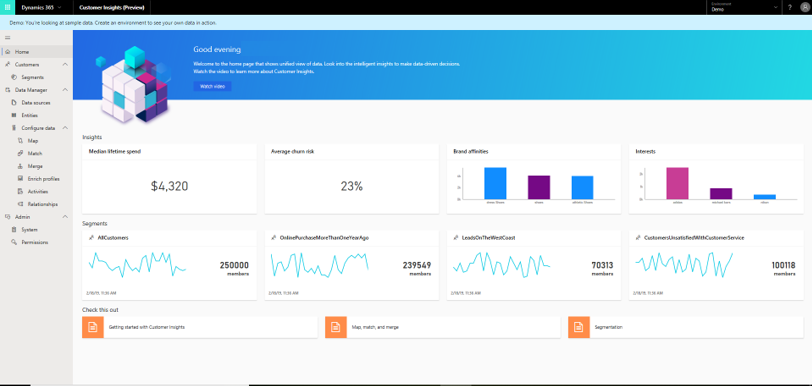
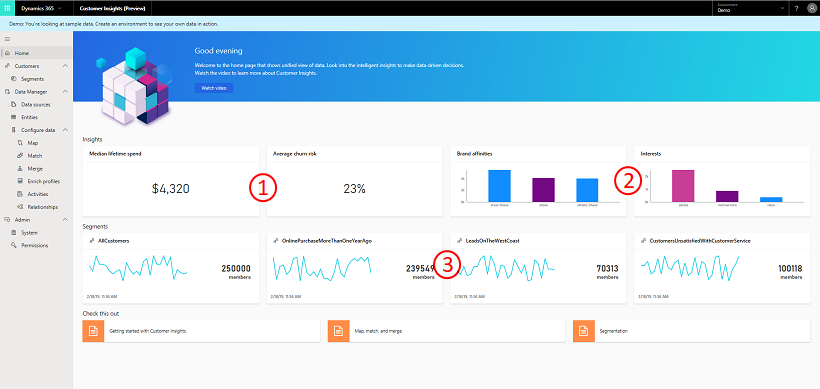
start edits for home page topic

diff --git a/ai-docs/customer-insights/pm-homepage.md b/ai-docs/customer-insights/pm-homepage.md
@@ -1,44 +1,39 @@
 ---
-title: "Home | MicrosoftDocs"
-description: Home
-ms.custom: ""
-ms.date: 04/01/2019
+title: "Home page in Dynamics 365 Customer Insights | MicrosoftDocs"
+description: Start exploring the app on the Home page in Dynamics 365 Customer Insights
+ms.date: 11/08/2019
 ms.reviewer: ""
 ms.service: dynamics-365-ai
-ms.suite: ""
-ms.tgt_pltfrm: ""
 ms.topic: "get-started-article"
 applies_to: 
   - "Dynamics 365 (online)"
   - "Dynamics 365 Version 9.x"
-ms.assetid: 
-caps.latest.revision: 31
 author: m-hartmann
 ms.author: mhart
 manager: shellyha
 ---
-# Home 
 
-The first page you see in the Dynamics 365 Customer Insights app is the home page. 
+# Home
 
-> [!div class="mx-imgBorder"] 
-> ![Insights on Home page](media/home-page-insights.png "Insights on Home page")
+The first page you see in the Dynamics 365 Customer Insights app is **Home**. The Home page gives you a holistic view of your customer base and metrics to track the health of your business.
 
-If you are a trial user, make sure you switch from a demo environment before you start. You can do this with the **Environment** toggle in the upper-right corner of the page. You can switch to any of the real-data environments that are available to you (and that will show up once you click the toggle):
+## Change between environments
+
+You can switch from a demo environment to your live environments if you want to work with data of your customers, given they've already been [set up and configured](pm-data-sources.md). Select the **Environment** control in the upper-right corner of the page to change environments.
 
 > [!div class="mx-imgBorder"] 
 > ![Switch environment](media/home-page-environment-switcher.png "Switch environment")
 
-## Exploring the home page
+## Explore the home page
 
-The Customer Insights home page gives you a holistic view of your customer base and metrics to track the health of your business. To access these insights on the home page, take a few steps to onboard, unite, and enrich your data. 
+To access these insights on the home page, take a few steps to onboard, unite, and enrich your data. 
 
 Through the data manager and unify processes, you can create a unified dataset of your customers out of datasets that are currently siloed and disconnected. Then you can use capabilities such as *Measures*, *Enrichment*, and *Activities* to unlock richer insights. Use capabilities such as *Segments* and *Customer Card* to act on the new insights.
 
 The types of insights you can expect to view on the home page are shown here.
 
 > [!div class="mx-imgBorder"] 
-> ![Insights on Home page](media/home-page-insights2.png "Insights on Home page")
+> ![Insights on Home page](media/home-page-insights.png "Insights on Home page")
 
 Let's explore those insights:
 
@@ -47,8 +42,6 @@ Let's explore those insights:
 - **Customer segments** (#3): Includes segments that were created around your customers. For more information on how to manually create additional segments, visit the **Segments** section.
 
 ### Next step
-Many of the home page insights are dependent upon the completion of the data configuration process, and this process in turn is based on first loading data into Customer Insights. See the <!-- [Data Manager](pm-data-manager.md) or --> [Data Sources](pm-data-sources.md) topic to learn how to complete the data loading process. 
+Many of the home page insights are dependent upon the completion of the data configuration process, and this process in turn is based on first loading data into Customer Insights. See the [Data Sources](pm-data-sources.md) topic to learn how to complete the data loading process.
 
-Complete these steps before you start building insights on top of your data. 
-
- 
+Complete these steps before you start building insights on top of your data.
